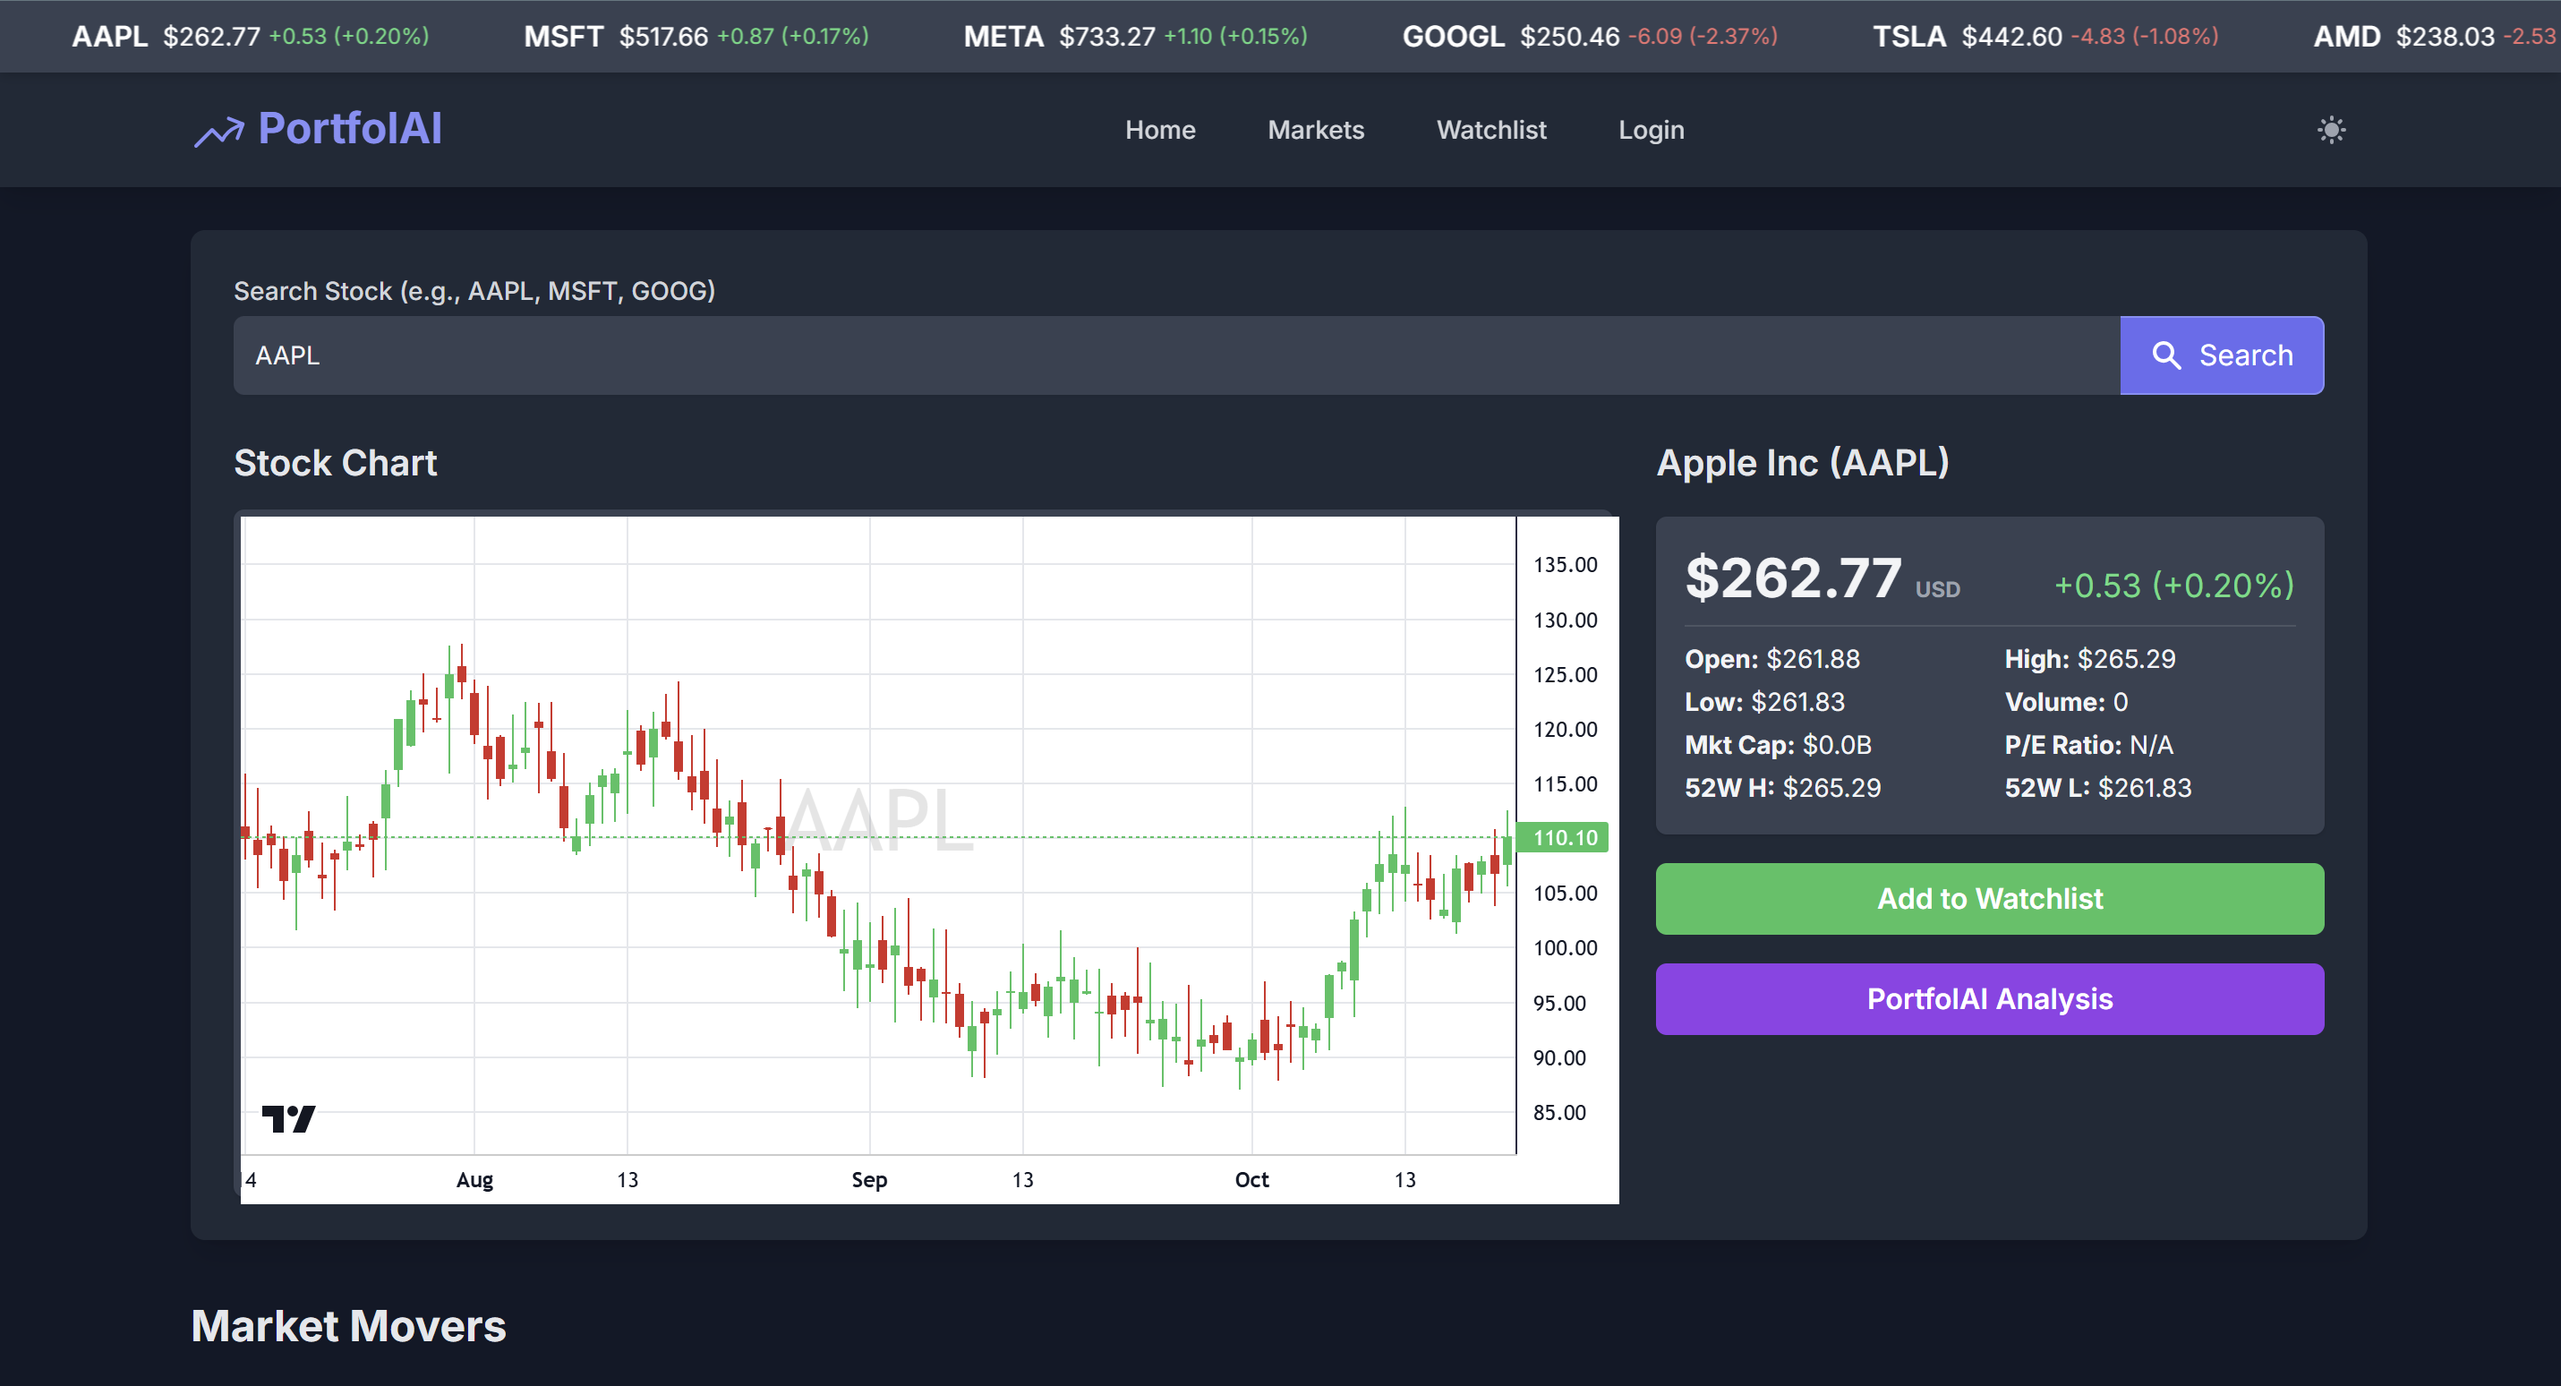
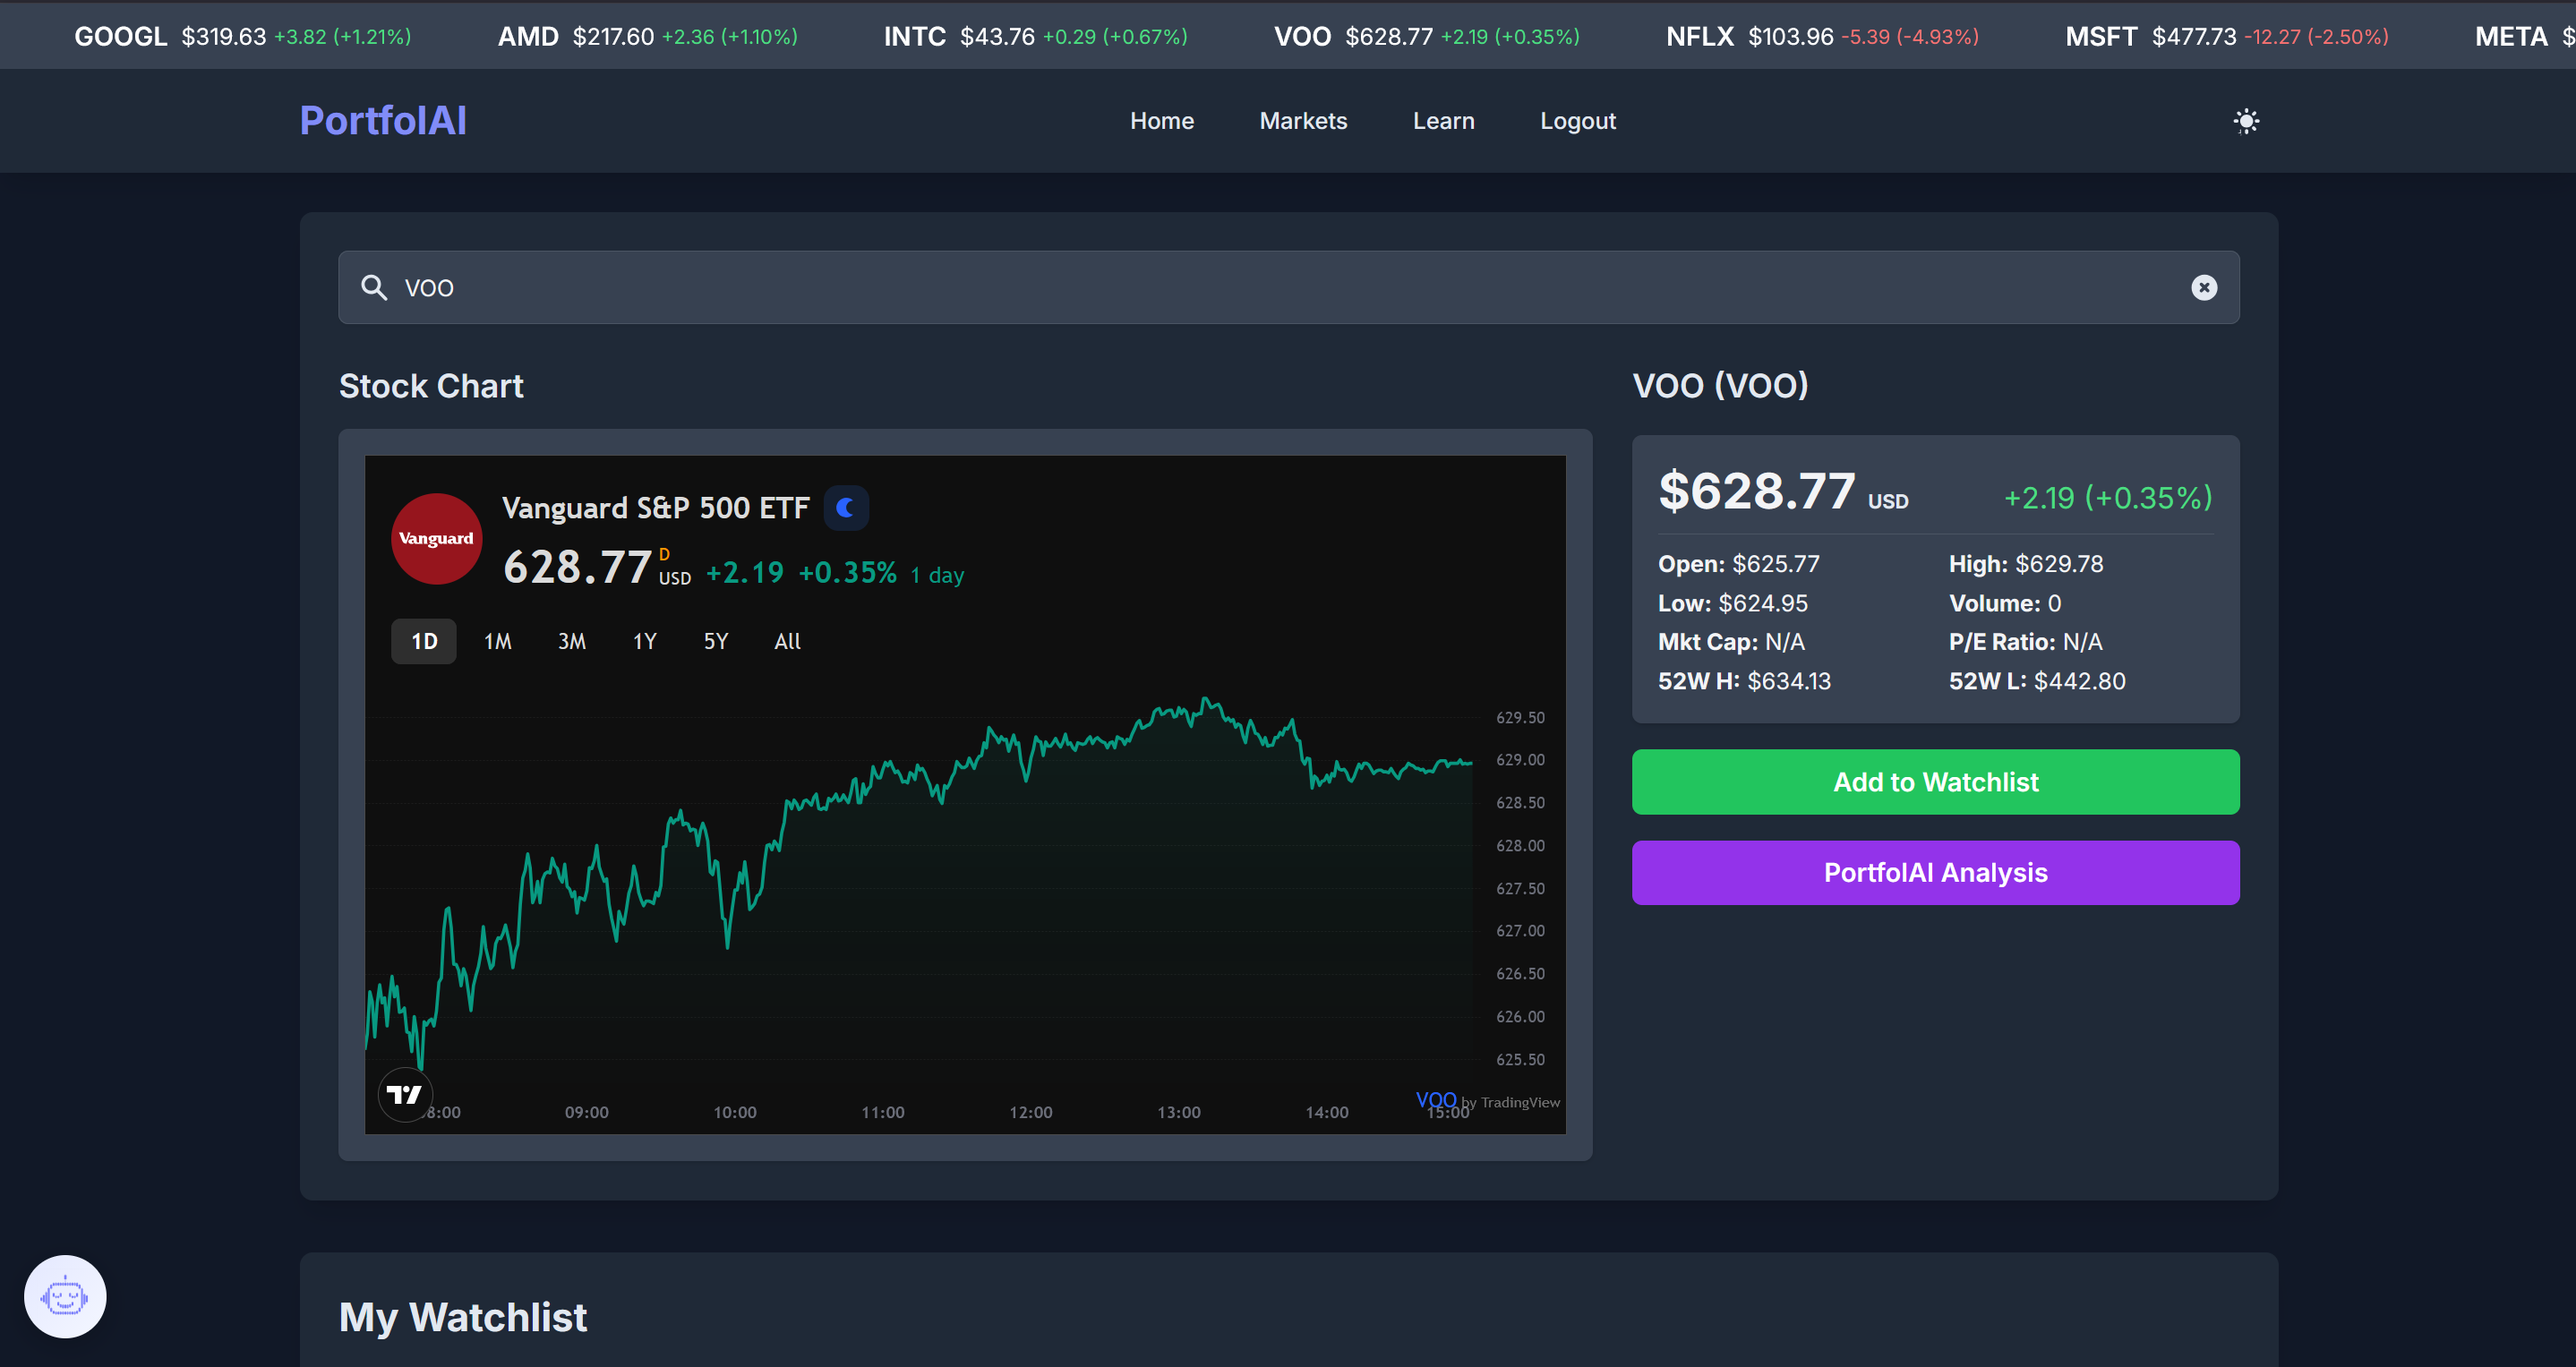
add new dashboard & news insights pictures

diff --git a/portfolai/core/templates/landing.html b/portfolai/core/templates/landing.html
@@ -431,7 +431,7 @@
         </section>
 
         <section
-            class="tw-relative tw-flex tw-min-h-[80vh] tw-w-full tw-max-w-[100vw] tw-flex-col tw-place-content-center tw-place-items-center tw-overflow-hidden tw-p-6"
+            class="tw-relative tw-flex tw-min-h-[50vh] tw-w-full tw-max-w-[100vw] tw-flex-col tw-place-content-center tw-place-items-center tw-overflow-hidden tw-p-6"
         >
             <div
                 class="reveal-up tw-flex tw-min-h-[60vh] tw-place-content-center tw-place-items-center tw-gap-[10%] max-lg:tw-flex-col max-lg:tw-gap-10"
@@ -484,7 +484,7 @@
 
         <section
             id="faq"
-            class="tw-flex tw-w-full tw-flex-col tw-place-content-center tw-place-items-center tw-gap-[10%] tw-p-[3%] tw-px-[10%]"
+            class="tw-mt-24 tw-flex tw-w-full tw-flex-col tw-place-content-center tw-place-items-center tw-gap-[10%] tw-p-[3%] tw-px-[10%]"
         >
             <h3
                 class="tw-text-4xl tw-font-medium tw-text-gray-300 max-md:tw-text-2xl"
